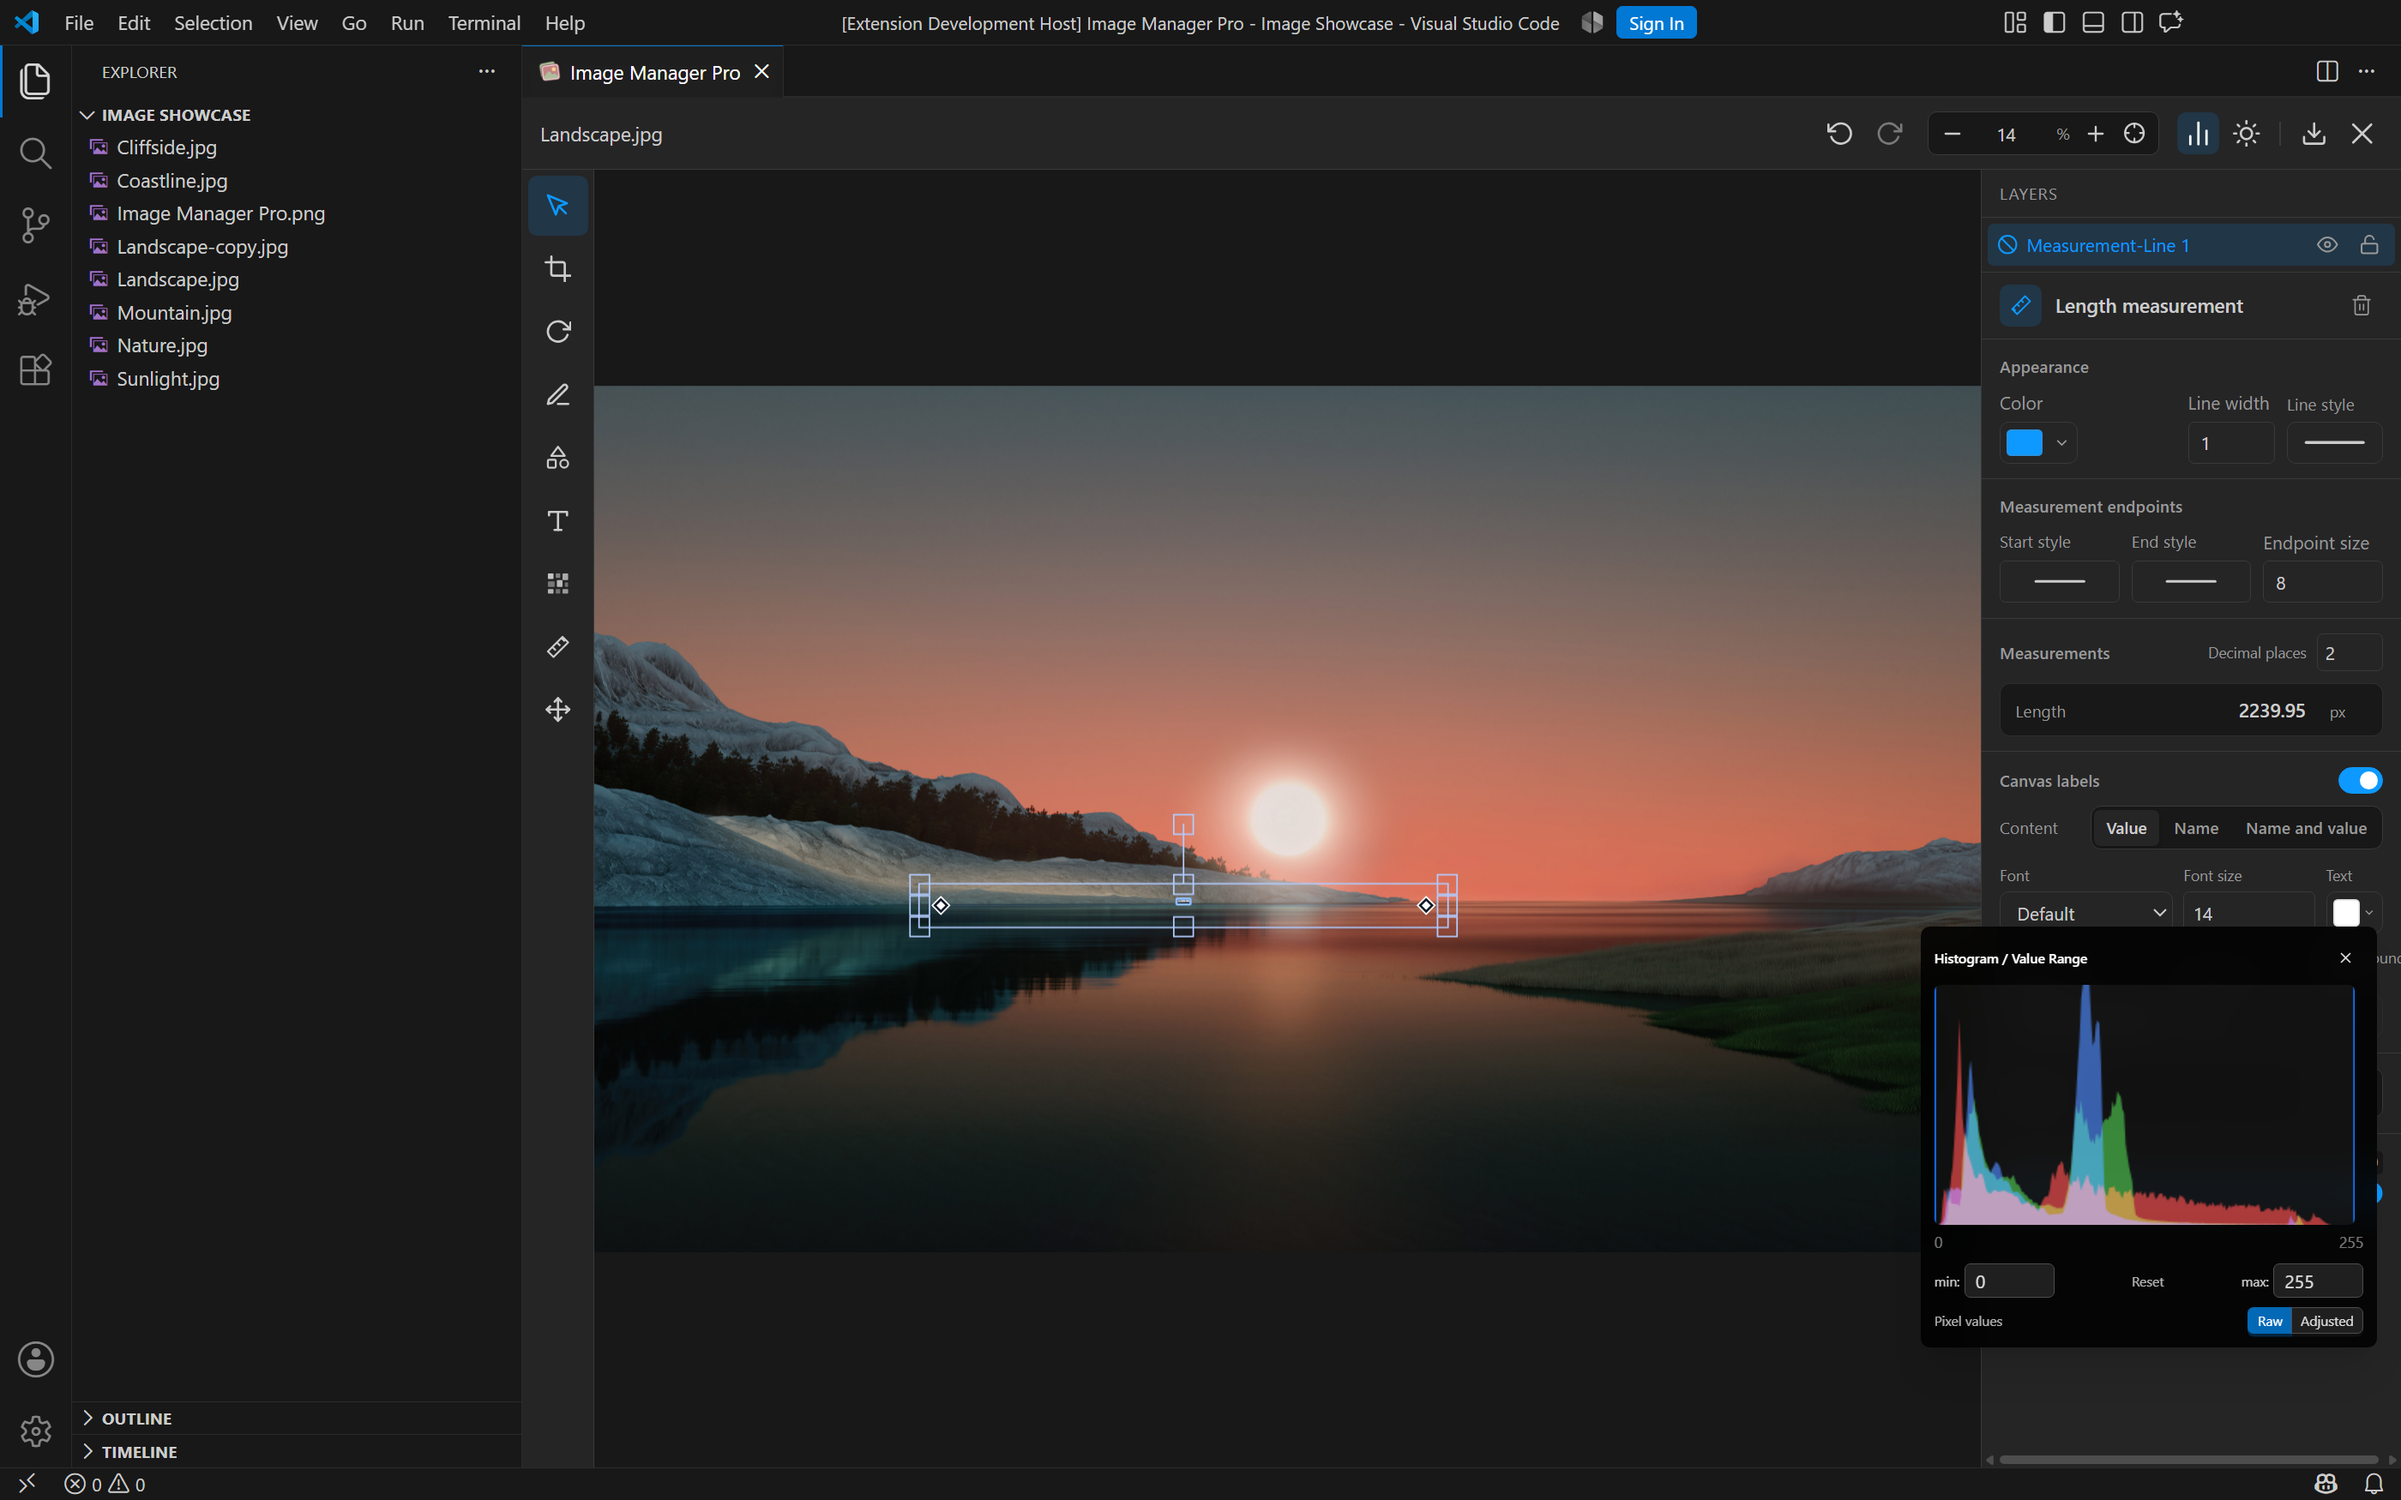
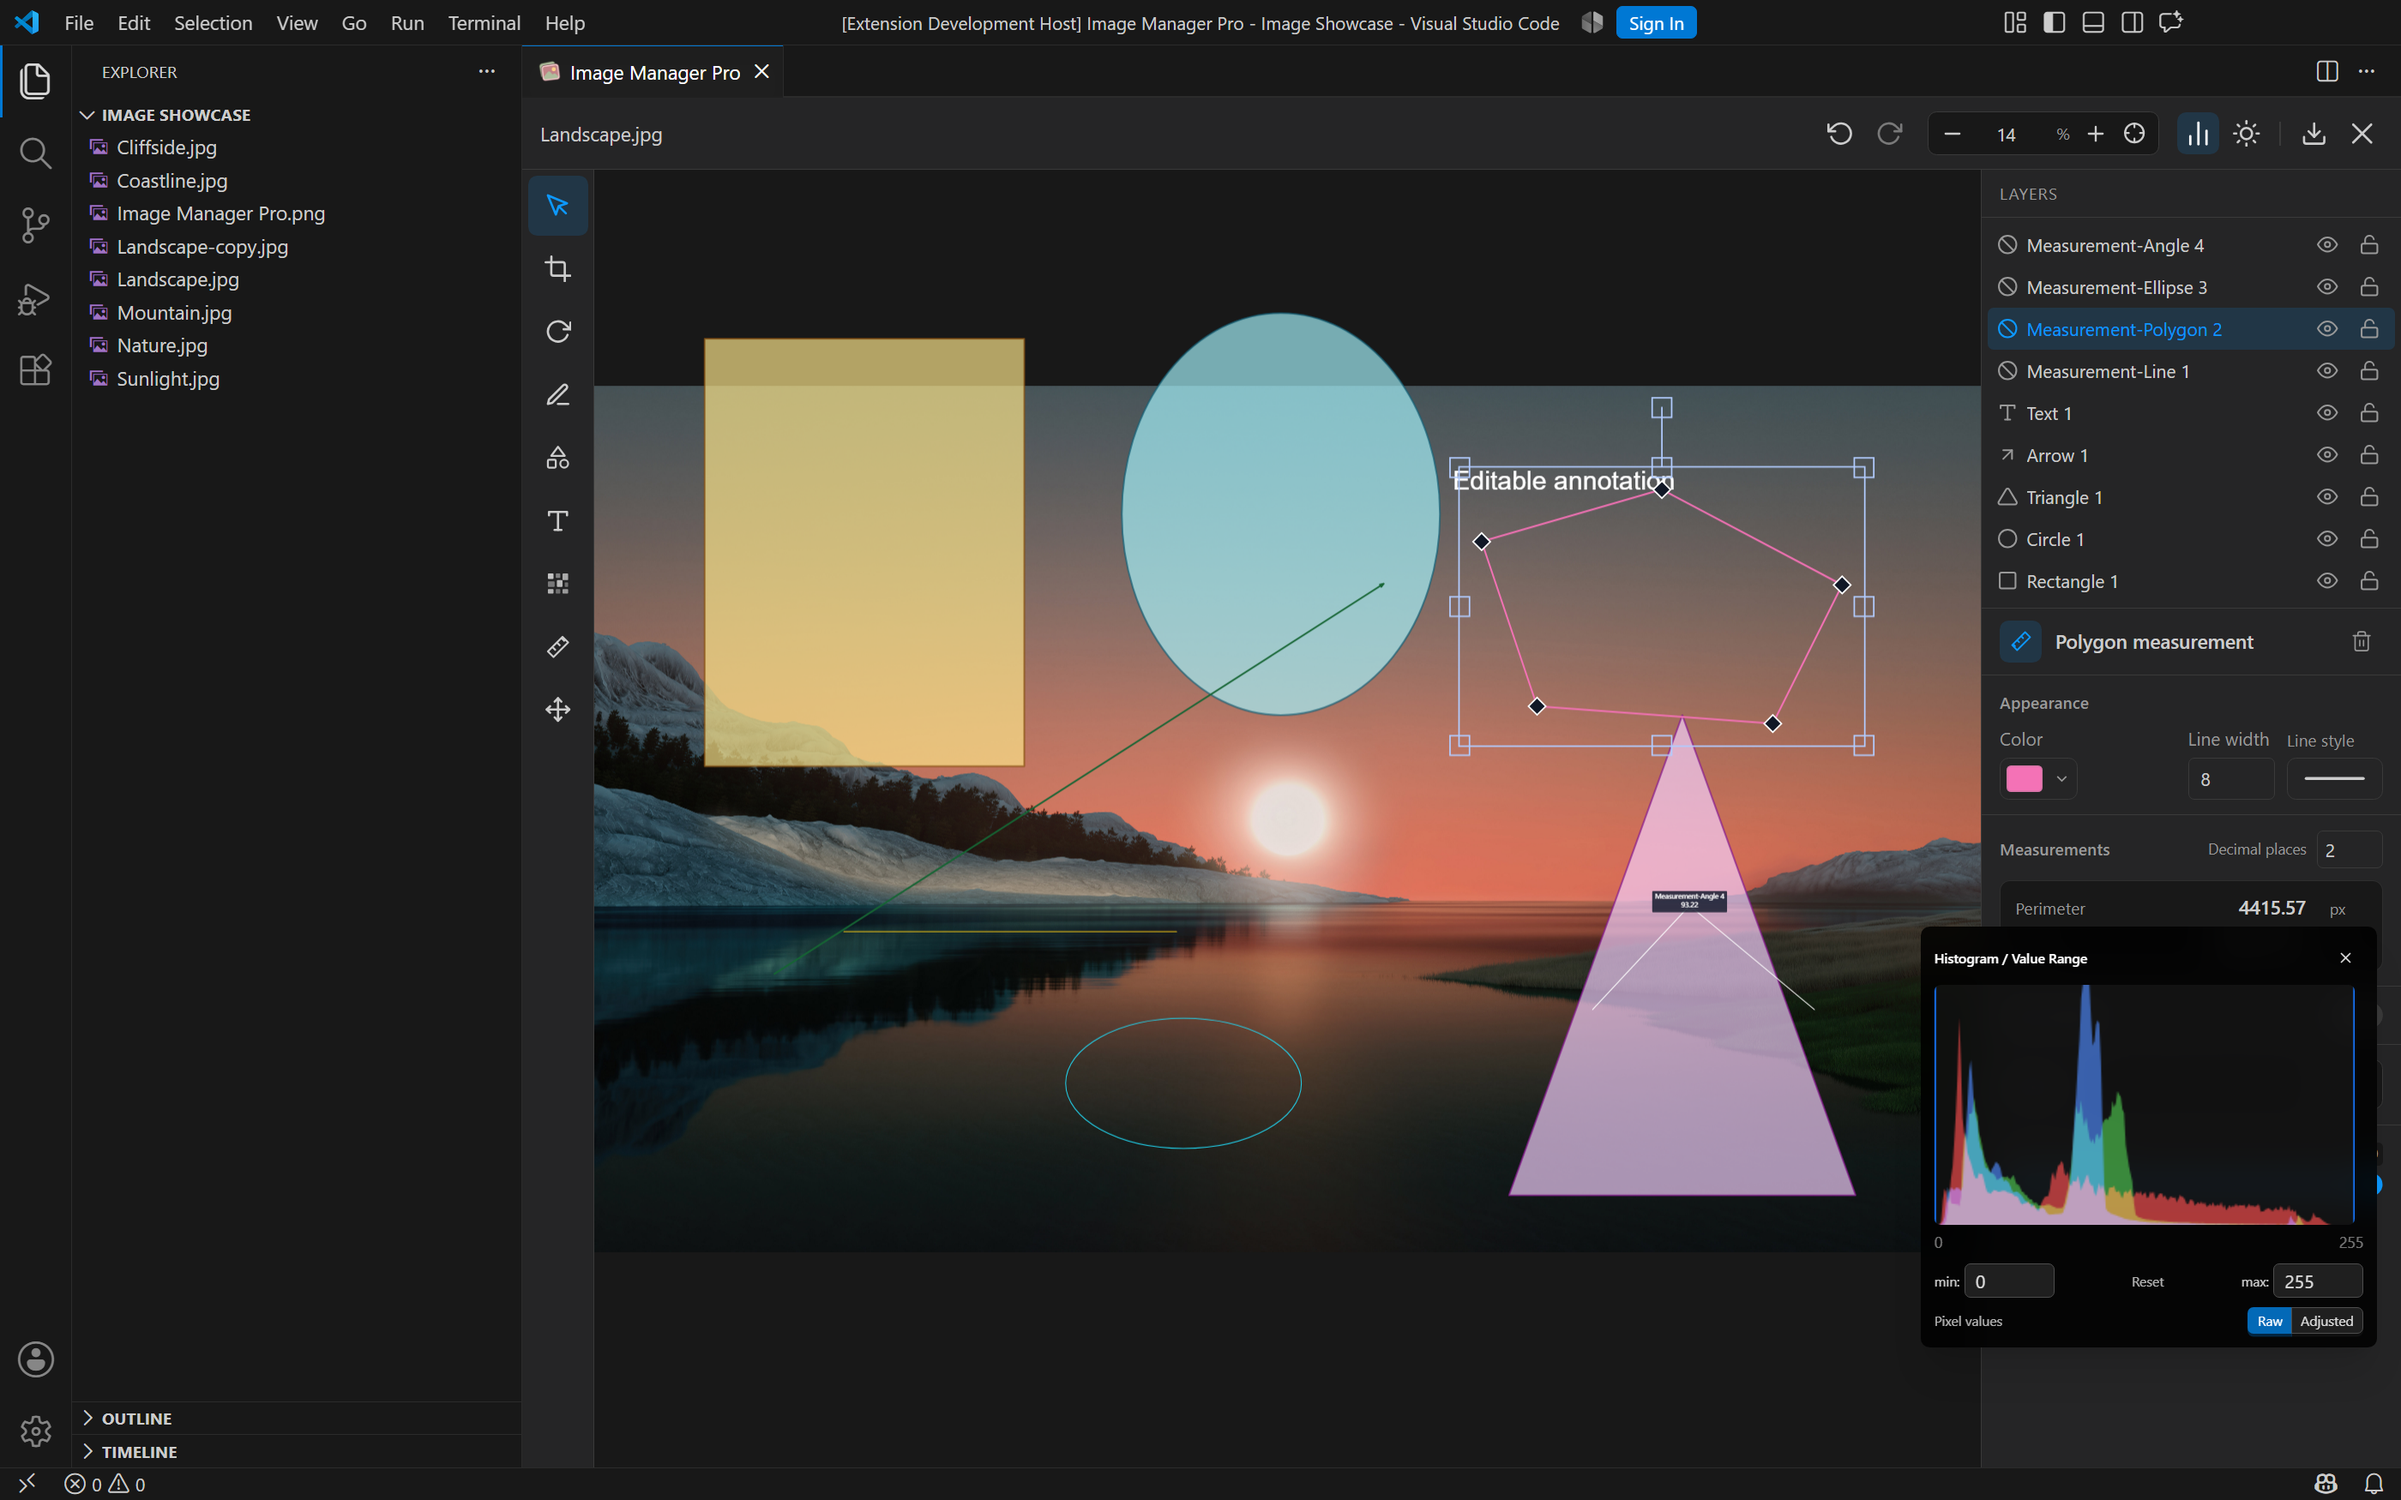
chore: release 3.3.13 and enable Marketplace trusted publishing

diff --git a/MARKETPLACE.md b/MARKETPLACE.md
@@ -25,7 +25,7 @@ Search filenames, browse folders, filter and sort the current view, select sever
 ![Pixel inspection and histogram](./screenshots/release/preview-details.png)
 
 - Read pixel coordinates and RGBA values at the pointer.
-- Zoom far enough to see a pixel grid with grayscale or RGB labels.
+- Use the 5000% preset to see a pixel grid with grayscale or RGB labels.
 - Compare raw values with values after the current display adjustment.
 - View RGB or grayscale histograms.
 - Drag or enter lower and upper bounds to reveal low-contrast structures.
@@ -36,7 +36,7 @@ Search filenames, browse folders, filter and sort the current view, select sever
 ![Image editor with layers](./screenshots/release/editor.png)
 
 - Crop, rotate, adjust brightness, contrast, saturation, blur and grayscale.
-- Add text, shapes, arrows, brush strokes and mosaic blocks.
+- Add text, rectangles, circles, triangles, arrows, brush strokes and mosaic blocks.
 - Keep every object in a layer list so it can be moved, restyled, hidden or locked later.
 - Use undo and redo while refining an annotation.
 - Export with a chosen format, scale, range and quality.
@@ -45,7 +45,7 @@ Search filenames, browse folders, filter and sort the current view, select sever
 
 ![Editable measurements](./screenshots/release/editor-measurements.png)
 
-Length, angle, polygon perimeter and supported shape area measurements are stored as objects rather than flattened pixels.
+Line, angle, polygon and ellipse measurements are stored as objects rather than flattened pixels.
 
 - Drag measurement points and angle arcs after creation.
 - Choose decimal precision and show the name, value or both.

diff --git a/RELEASING.md b/RELEASING.md
@@ -36,4 +36,20 @@ Create the intended GitHub repository and confirm its URLs. Register or select y
 
 The initial GitHub publication uses a clean current-source snapshot. Original development history remains in the local checkout because it includes local environment and diagnostic files. Local plans, environment files, and upstream automation requiring the original author's credentials are excluded from that snapshot.
 
-Publish using the `lucymystery` account in the Marketplace management page, or authenticate VSCE with publishing credentials. The preparation scripts do not publish automatically.
+Publish using the `lucymystery` account in the Marketplace management page, or authenticate VSCE with publishing credentials. The local preparation scripts do not publish automatically.
+
+## Automatic Marketplace Updates
+
+The `Publish to VS Code Marketplace` GitHub Actions workflow publishes the VSIX
+attached to a published GitHub Release. Use a tag such as `v3.3.13` and attach
+`image-manager-pro-3.3.13.vsix` before publishing the release. The workflow checks
+the package identity and version, then uses VSCE 4.1.0 with OIDC.
+
+In Marketplace, the `lucymystery` publisher's Trusted Publishing policy must
+authorize repository owner `130040167`, repository `image-manager-pro` and workflow
+`publish-marketplace.yml`. Leave Environment empty. No PAT or GitHub repository
+secret is needed.
+
+For an existing release, run the workflow manually with its tag. A successful
+submission can still show `Verifying` in Marketplace; confirm the version is
+publicly available before calling the release complete.

diff --git a/README.md b/README.md
@@ -45,7 +45,7 @@ At high zoom levels, the preview becomes a practical pixel inspection tool. Move
 
 ![Pixel grid, color values and histogram controls](./screenshots/release/preview-details.png)
 
-- Display an enlarged pixel grid with grayscale or RGB values on individual pixels.
+- Use the 5000% preset to display an enlarged pixel grid with grayscale or RGB values on individual pixels.
 - Read the current pixel coordinate and RGBA value directly from the preview.
 - Switch between raw values and values after the current display adjustment.
 - Inspect RGB or grayscale histograms while keeping the image visible.
@@ -56,7 +56,7 @@ This is useful for checking edges, masks, low-contrast regions, screenshots, ico
 
 ## Edit With Objects You Can Revisit
 
-The editor is designed for changes that may need another pass. Crop, rotate, adjust brightness or contrast, add text, draw shapes and arrows, brush, mosaic, and export the result from one workspace.
+The editor is designed for changes that may need another pass. Crop, rotate, adjust brightness or contrast, add text, draw rectangles, circles, triangles and arrows, brush, mosaic, and export the result from one workspace.
 
 ![Image editor with layers and editable objects](./screenshots/release/editor.png)
 
